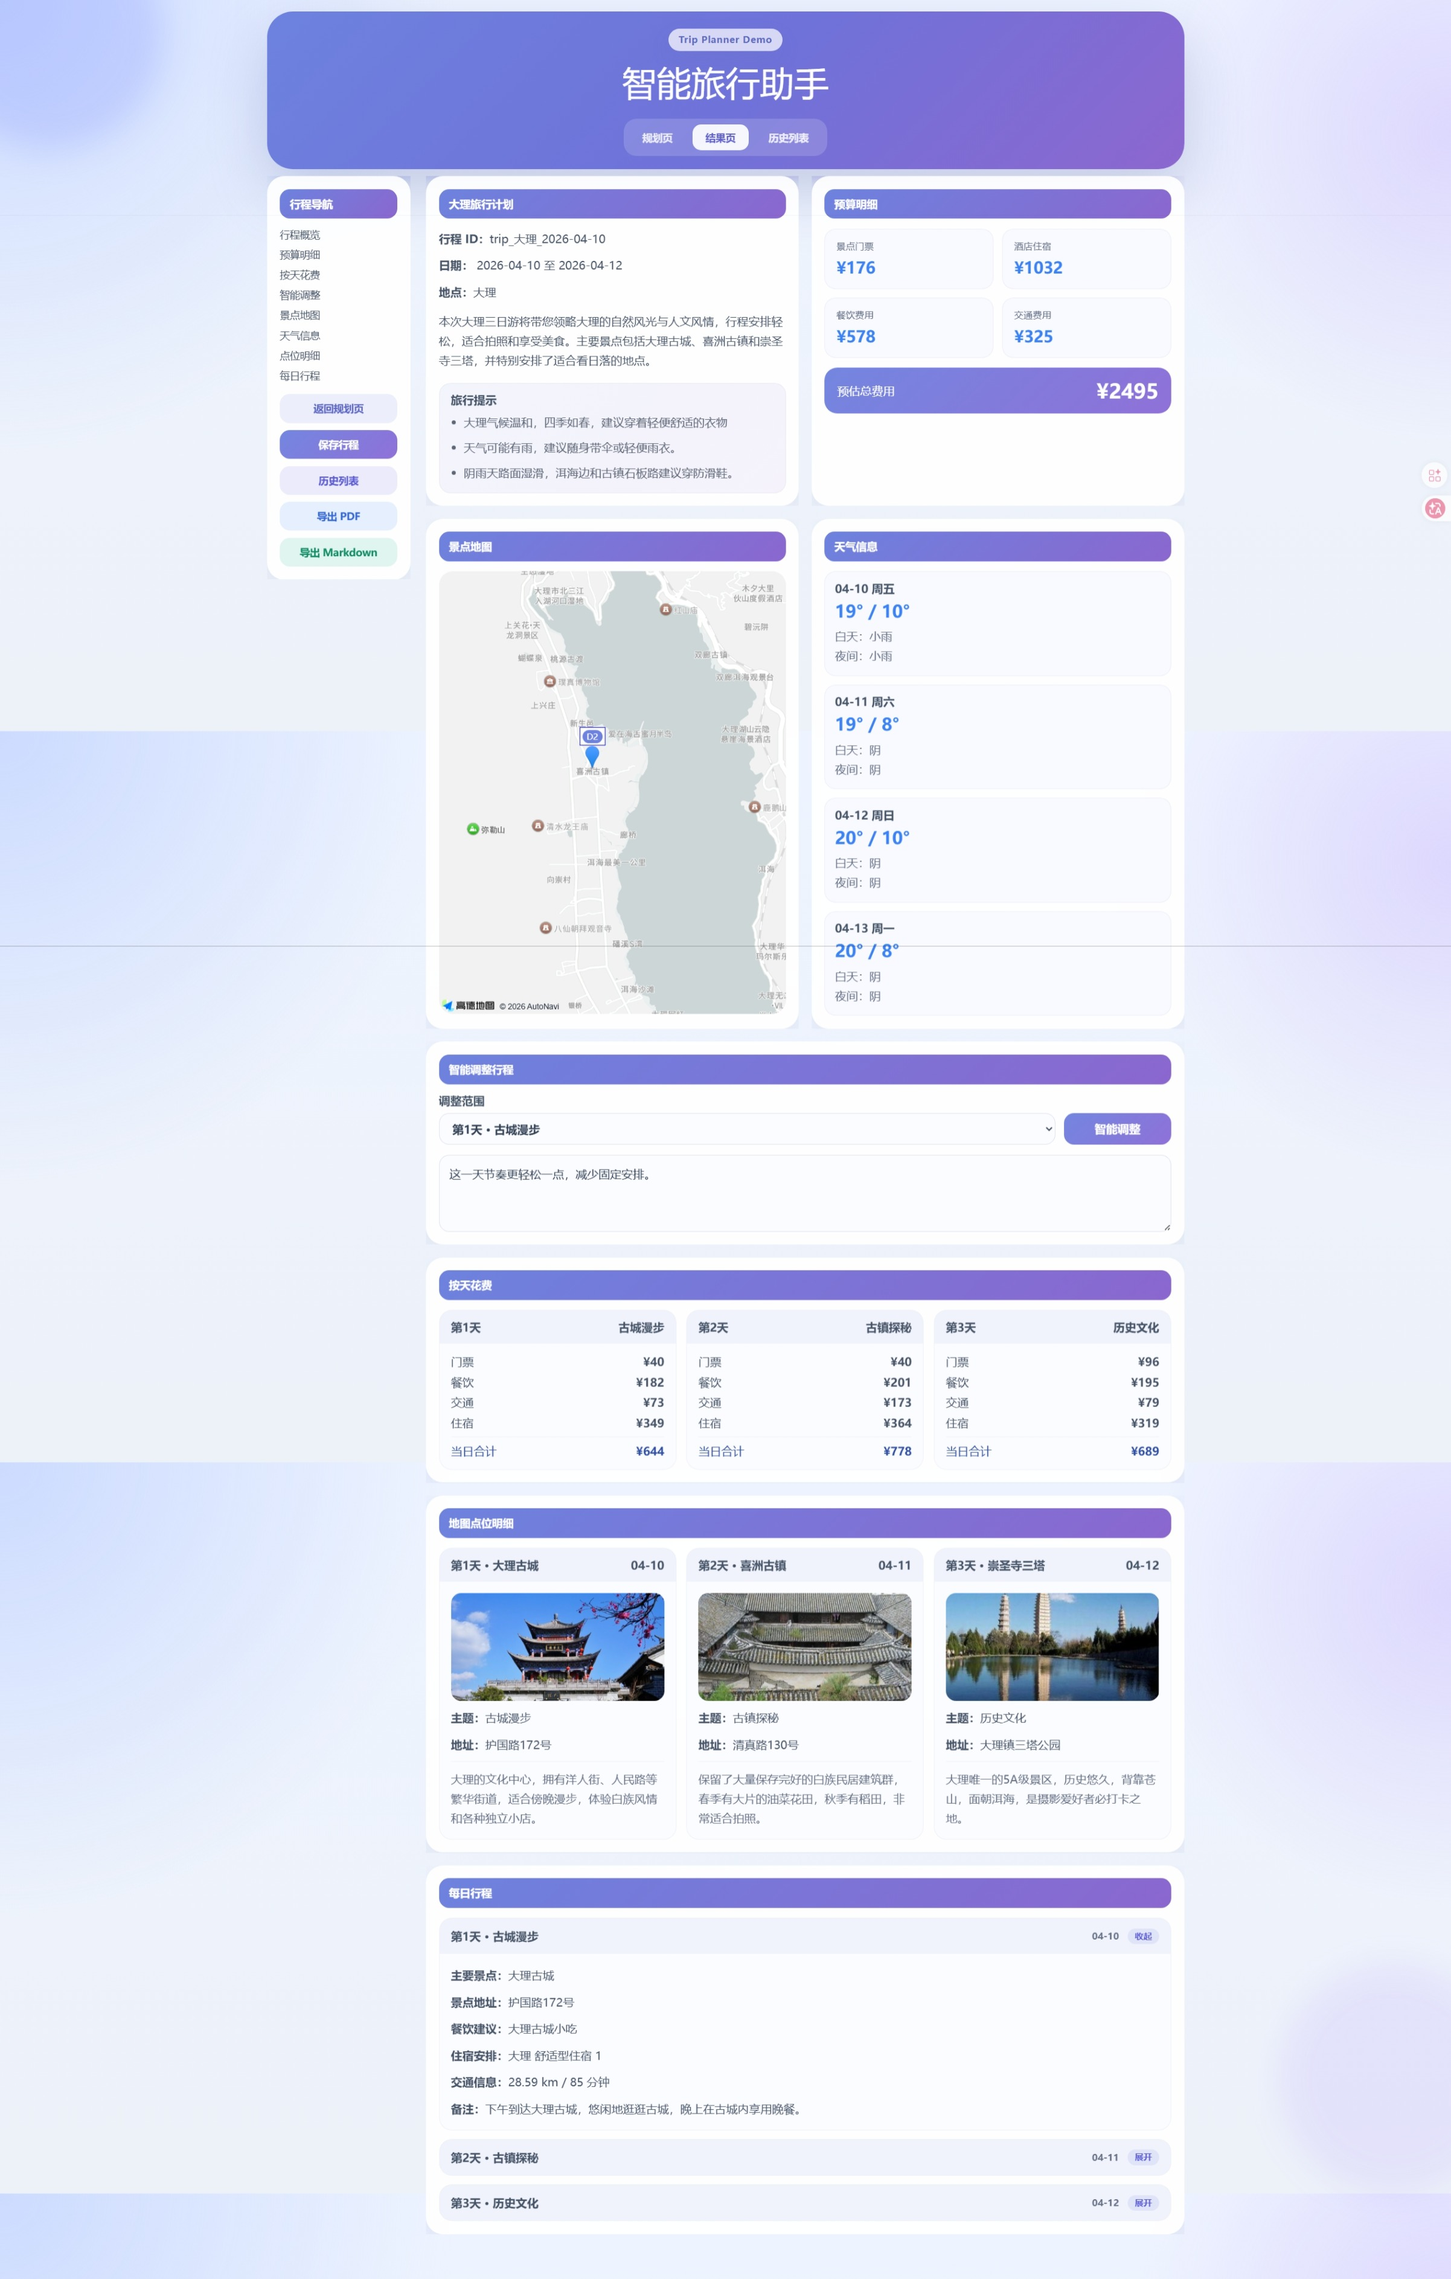
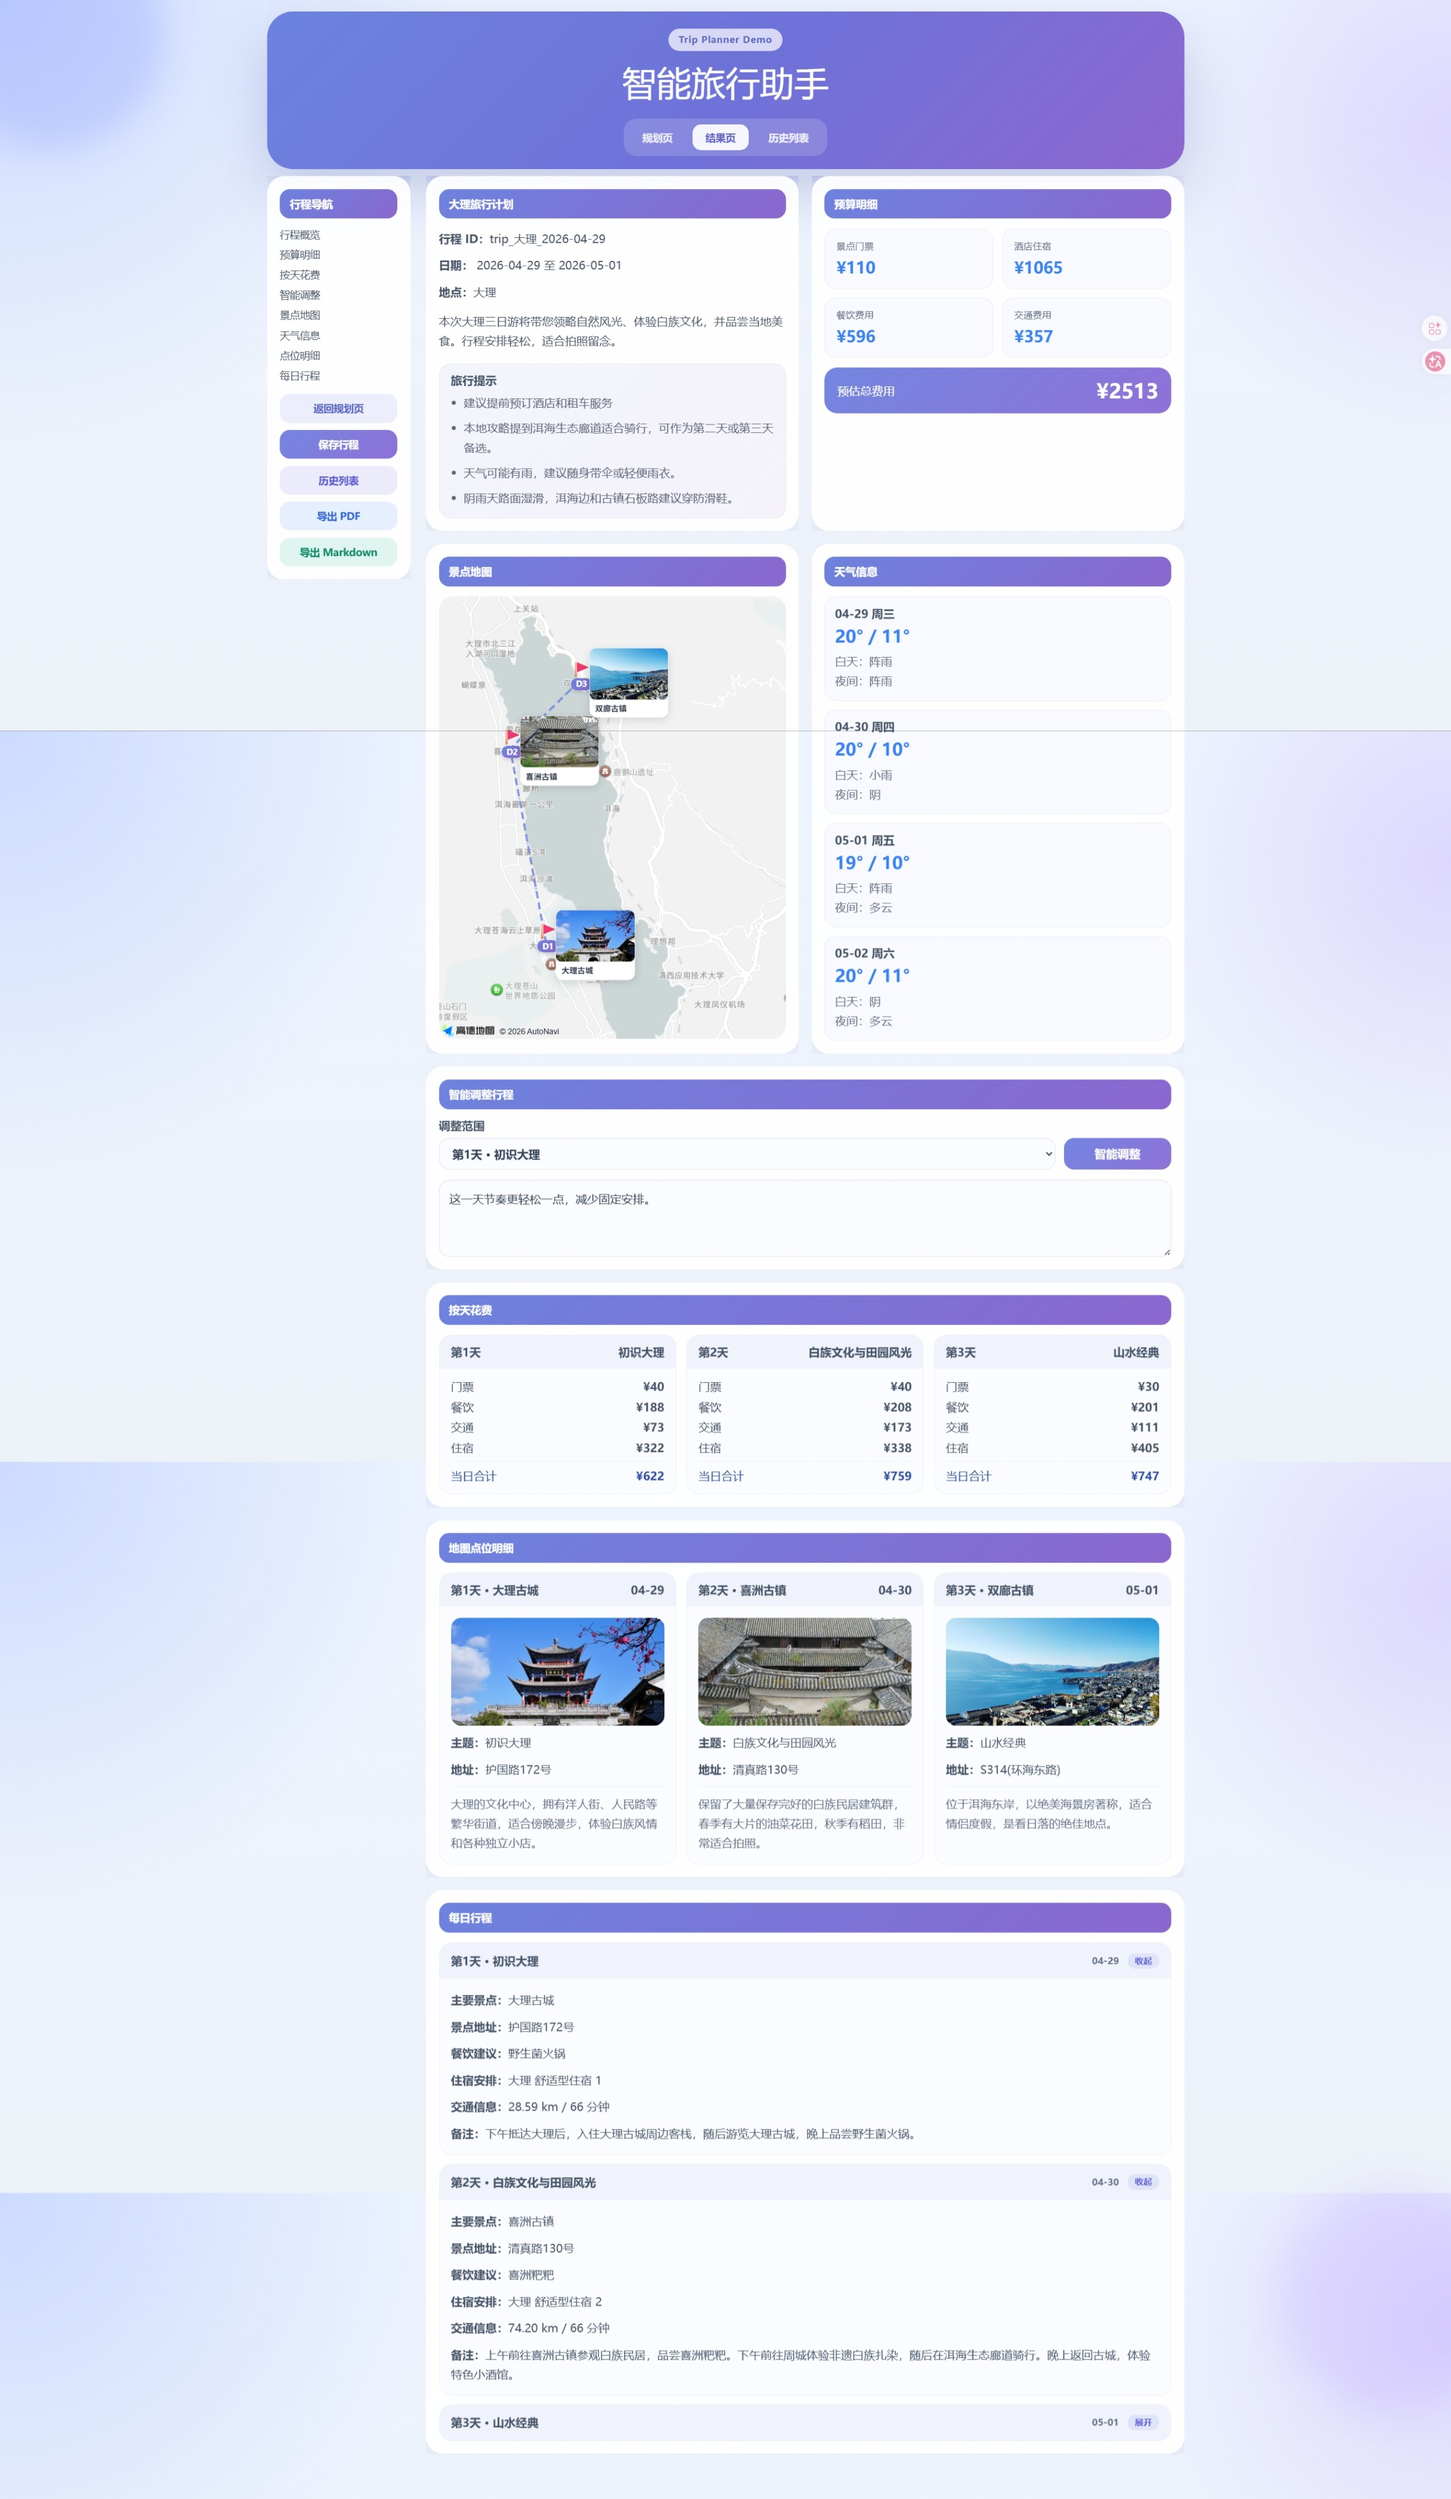
更新前端-地图显示

diff --git a/frontend/src/components/AmapTripMap.vue b/frontend/src/components/AmapTripMap.vue
@@ -11,6 +11,7 @@ interface TripMapPoint {
   latitude: number | null | undefined;
   longitude: number | null | undefined;
   poiId: string | null | undefined;
+  imageUrl?: string | null;
   description: string;
 }
 
@@ -27,6 +28,7 @@ declare global {
 const mapContainer = ref<HTMLDivElement | null>(null);
 const mapInstance = ref<any>(null);
 const markerList = ref<any[]>([]);
+const routeLine = ref<any>(null);
 const loadError = ref("");
 
 const amapKey = import.meta.env.VITE_AMAP_JS_KEY;
@@ -37,7 +39,7 @@ const validPoints = computed(() =>
   )
 );
 
-function clearMarkers() {
+function clearOverlays() {
   if (!mapInstance.value) {
     return;
   }
@@ -46,6 +48,11 @@ function clearMarkers() {
     mapInstance.value.remove(marker);
   });
   markerList.value = [];
+
+  if (routeLine.value) {
+    mapInstance.value.remove(routeLine.value);
+    routeLine.value = null;
+  }
 }
 
 function renderMarkers() {
@@ -53,25 +60,80 @@ function renderMarkers() {
     return;
   }
 
-  clearMarkers();
+  clearOverlays();
 
+  const sorted = [...validPoints.value].sort((a, b) => a.dayIndex - b.dayIndex);
   const bounds: [number, number][] = [];
+  const routePath: [number, number][] = [];
 
-  validPoints.value.forEach((point) => {
+  sorted.forEach((point) => {
     const position: [number, number] = [point.longitude as number, point.latitude as number];
     bounds.push(position);
+    routePath.push(position);
 
     const marker = new window.AMap.Marker({
       position,
       title: point.name,
-      label: {
-        content: `<div style="padding:2px 6px;border-radius:999px;background:#6d82de;color:#fff;font-size:12px;">D${point.dayIndex}</div>`,
-        direction: "top",
-      },
+      offset: new window.AMap.Pixel(-12, -28),
+      content: `
+        <div style="position:relative;display:flex;flex-direction:column;align-items:center;">
+          <div style="font-size:22px;line-height:1;">🚩</div>
+          <div style="
+            margin-top:2px;
+            padding:2px 7px;
+            border-radius:999px;
+            background:linear-gradient(135deg,#6d82de,#8a67cf);
+            color:#fff;
+            font-size:11px;
+            font-weight:700;
+            white-space:nowrap;
+            box-shadow:0 2px 6px rgba(0,0,0,0.18);
+          ">D${point.dayIndex}</div>
+        </div>
+      `,
+    });
+
+    const imageHtml = point.imageUrl
+      ? `<img src="${point.imageUrl}" alt="${point.name}" style="width:100%;height:100%;object-fit:cover;border-radius:8px;" />`
+      : `<div style="width:100%;height:100%;display:grid;place-items:center;border-radius:8px;background:linear-gradient(135deg,#e8edff,#f0e8ff);color:#8b8fad;font-size:10px;">暂无图片</div>`;
+
+    const bubble = new window.AMap.Marker({
+      position,
+      offset: new window.AMap.Pixel(14, -46),
+      content: `
+        <div style="
+          position:relative;
+          width:110px;
+          background:#fff;
+          border-radius:10px;
+          box-shadow:0 3px 12px rgba(0,0,0,0.12);
+          overflow:hidden;
+          font-family:-apple-system,BlinkMacSystemFont,'Segoe UI',sans-serif;
+        ">
+          <div style="width:110px;height:72px;overflow:hidden;background:#eef3ff;">
+            ${imageHtml}
+          </div>
+          <div style="padding:5px 8px 6px;">
+            <div style="font-size:11px;font-weight:600;color:#2d3748;line-height:1.3;overflow:hidden;text-overflow:ellipsis;white-space:nowrap;">${point.name}</div>
+          </div>
+          <div style="
+            position:absolute;
+            left:-5px;
+            top:30px;
+            width:0;
+            height:0;
+            border-top:5px solid transparent;
+            border-bottom:5px solid transparent;
+            border-right:5px solid #fff;
+            filter:drop-shadow(-2px 0 2px rgba(0,0,0,0.06));
+          "></div>
+        </div>
+      `,
+      zIndex: 100,
     });
 
     const infoWindow = new window.AMap.InfoWindow({
-      offset: new window.AMap.Pixel(0, -24),
+      offset: new window.AMap.Pixel(0, -32),
       content: `
         <div style="max-width:240px;padding:4px 2px;line-height:1.7;">
           <strong>${point.name}</strong><br/>
@@ -86,13 +148,35 @@ function renderMarkers() {
     });
 
     mapInstance.value.add(marker);
+    mapInstance.value.add(bubble);
     markerList.value.push(marker);
+    markerList.value.push(bubble);
   });
+
+  if (routePath.length >= 2) {
+    routeLine.value = new window.AMap.Polyline({
+      path: routePath,
+      strokeColor: "#6d82de",
+      strokeWeight: 3,
+      strokeOpacity: 0.8,
+      strokeStyle: "dashed",
+      strokeDasharray: [10, 6],
+      lineJoin: "round",
+      lineCap: "round",
+      showDir: true,
+      dirColor: "#6d82de",
+      dirSize: 8,
+      borderWeight: 1,
+      borderColor: "rgba(109,130,222,0.25)",
+      zIndex: 50,
+    });
+    mapInstance.value.add(routeLine.value);
+  }
 
   if (bounds.length === 1) {
     mapInstance.value.setZoomAndCenter(13, bounds[0]);
   } else if (bounds.length > 1) {
-    mapInstance.value.setFitView(markerList.value, false, [40, 40, 40, 40]);
+    mapInstance.value.setFitView(markerList.value, false, [60, 60, 60, 60]);
   }
 }
 
@@ -170,7 +254,7 @@ watch(validPoints, () => {
 });
 
 onBeforeUnmount(() => {
-  clearMarkers();
+  clearOverlays();
   if (mapInstance.value) {
     mapInstance.value.destroy();
     mapInstance.value = null;

diff --git a/frontend/src/views/Home.vue b/frontend/src/views/Home.vue
@@ -24,10 +24,21 @@ const dietaryOptions = [
   "不吃葱",
 ];
 
+function formatDate(date: Date): string {
+  const y = date.getFullYear();
+  const m = String(date.getMonth() + 1).padStart(2, "0");
+  const d = String(date.getDate()).padStart(2, "0");
+  return `${y}-${m}-${d}`;
+}
+
+const today = new Date();
+const todayPlus2 = new Date(today);
+todayPlus2.setDate(todayPlus2.getDate() + 2);
+
 const formState = reactive({
   destination: "大理",
-  startDate: "2026-04-10",
-  endDate: "2026-04-12",
+  startDate: formatDate(today),
+  endDate: formatDate(todayPlus2),
   travelers: 2,
   budget: 3200,
   hotelLevel: "舒适型",

diff --git a/README.md b/README.md
@@ -8,7 +8,9 @@
 
 ## 📝 最近更新
 
-- `2026-04-29`：扩充 RAG 知识库至 5 个目的地（大理/成都/西安/厦门/三亚），评估样例集扩充至 15 条，完成规则级 Rerank 多层降权与 Query Rewrite 目的地过滤。
+- `2026-04-29`
+  - RAG：扩充知识库至 5 个目的地（大理/成都/西安/厦门/三亚），评估样例集扩充至 15 条，完成规则级 Rerank 多层降权与 Query Rewrite 目的地过滤，消除跨目的地污染。
+  - 地图前端：新增地图路线虚线箭头可视化、🚩 旗帜打卡标记与景点图片气泡窗口。
 - `2026-04-25`：完成第一轮 RAG 在线阶段优化，已接入轻量化 Query Rewrite、轻量 Rerank 与检索调试脚本。
 - `2026-04-15`：新增 Redis 缓存层，已覆盖天气查询、地图查询与 RAG 检索结果缓存。
 
@@ -42,7 +44,7 @@
 - 🧠 **LLM 行程生成**：基于 LangChain + DashScope 调用 `qwen-max` 生成结构化旅行计划
 - 📚 **RAG 攻略增强**：使用本地 Markdown 攻略 + Chroma 向量检索，为生成结果补充目的地上下文
 - 🧭 **RAG 在线优化**：规则级 Query Rewrite（含目的地过滤）+ 多层 Rerank 降权（行程/简介/目的地不匹配），消除跨目的地污染
-- 🗺 **高德地图接入**：补充景点地址、经纬度、POI ID、路线距离、耗时和景点图片
+- 🗺 **高德地图接入**：补充景点地址、经纬度、POI ID、路线距离、耗时和景点图片，并支持虚线箭头路线可视化与 🚩 打卡标记
 - 🌦 **天气感知提示**：前端展示天气预报，并根据雨天/阴天自动修正旅行提示
 - ⚡ **Redis 缓存层**：覆盖天气、地图与 RAG 检索缓存，减少重复外部调用开销
 - 💰 **预算拆分**：按交通、住宿、餐饮、门票、其他费用拆分，并支持按天展示

diff --git a/CHANGELOG.md b/CHANGELOG.md
@@ -57,6 +57,13 @@ trip_planner:map:place:喜洲古镇:大理:1
 
 ## 2026-04-29
 
+### 地图路线可视化
+
+- 在高德地图上用虚线箭头连接各天行程点位，展示完整路线走向。
+- 每个目的地用 🚩 旗帜图标标记，直观体现打卡风格。
+- 鼠标悬停时展示景点图片气泡窗口（含景区图片和地名），无图片时显示占位提示。
+- 气泡窗口采用轻量卡片设计，尺寸紧凑，不遮挡地图主体内容。
+
 ### RAG 知识库扩充
 
 - 新增 4 个目的地攻略文档：`chengdu_guide.md`、`xian_guide.md`、`xiamen_guide.md`、`sanya_guide.md`。
